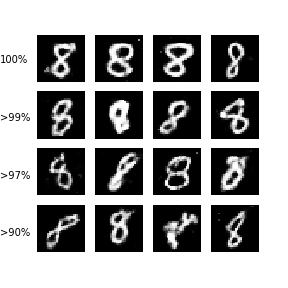
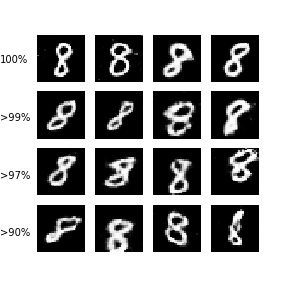
updated pgd

diff --git a/pgd.py b/pgd.py
@@ -1,0 +1,61 @@
+import tensorflow as tf 
+import numpy as np 
+from tensorflow.keras import backend as K
+import matplotlib.pyplot as plt
+import time
+# %matplotlib inline
+
+digit_origin = 8
+digit_target = 3
+
+classifier = tf.keras.models.load_model('Models/classifier_capacity1_simple.model', compile=True)
+gan = tf.keras.models.load_model('Models/gan_digit8_rich.h5')
+
+classifier.trainable = False
+combined_networkInput = tf.keras.layers.Input(shape=(10,))
+x = (gan(combined_networkInput) + 1.0)/2.0
+new_shape = tf.convert_to_tensor([1,28,28,1],dtype=tf.int32)
+x = tf.reshape(x,new_shape,name=None)
+combined_networkOutput = classifier(x)
+combined_network = tf.keras.models.Model(inputs=combined_networkInput, outputs=combined_networkOutput)
+
+
+noise_change = 0.5
+
+found = False
+
+loss_object = tf.keras.losses.CategoricalCrossentropy()
+
+input_label = np.zeros((1,10))
+input_label[0][digit_target] = 1.0
+
+start = time.time()
+
+while(not found):
+        noise = np.random.normal(0,1,size=[1,10])
+        noise = tf.cast(noise,tf.float32)
+
+        print("try a new seed")
+        j = 0
+        while(j < 25 and not found):
+                prediction = combined_network(noise)
+                loss = loss_object(input_label,prediction)
+                grad = tf.gradients(loss,noise)[0]
+                perturbations = tf.sign(grad)
+                noise -= noise_change*perturbations
+                result_target = K.eval(combined_network(noise))[0][3]
+                print("confidence of 3",result_target)
+                print("confidence of 8",K.eval(combined_network(noise))[0][8])
+                if(result_target > 0.5):
+                      generated_image = K.eval(gan(noise))[0]
+                      print("Confidence in %d is %f" % (digit_target,result_target))
+                      plt.imshow(generated_image.reshape(1,28,28)[0],cmap='gray')
+                      plt.axis("off")
+                      found = True
+                j += 1
+
+end = time.time()
+print("time: %f" % (end - start))
+
+plt.savefig('adversarial_examples_white_box.png')
+plt.show()
